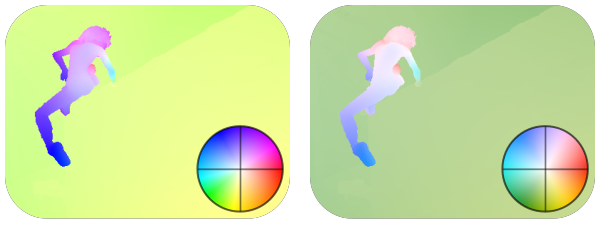
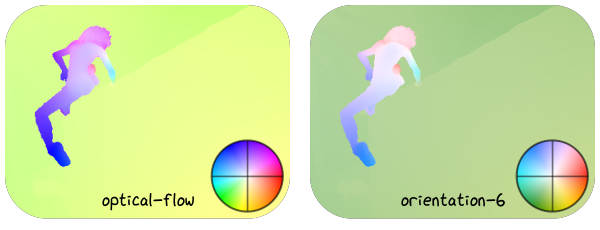
add color map name to optical flow demo

Changed region(s): [[0.15, 0.5174, 0.48, 0.9435], [0.66, 0.5174, 0.99, 0.9435]]

diff --git a/examples/rtd-examples-python/rtd_demo_images/optical_flow.py b/examples/rtd-examples-python/rtd_demo_images/optical_flow.py
@@ -12,6 +12,8 @@ def demo_optical_flow():
     
     painter = viren2d.Painter(height=230, width=600, color='white!0')
     grid_style = viren2d.LineStyle(2, "black!60")
+    text_style = viren2d.TextStyle(
+        family='xkcd', size=18)
 
     scale = (painter.width / 2 - 15) / flow.width
 
@@ -24,7 +26,7 @@ def demo_optical_flow():
             scale_x=scale, scale_y=scale)
 
         legend = viren2d.optical_flow_legend(
-            size=120, colormap=cmap, line_style=grid_style)
+            size=100, colormap=cmap, line_style=grid_style)
 
         painter.draw_image(
             legend,
@@ -33,5 +35,11 @@ def demo_optical_flow():
                 5 + (flow_vis.height - 10) * scale),
             anchor='bottom-right', line_style=grid_style, clip_factor=1,
             scale_x=scale, scale_y=scale)
+        
+        painter.draw_text(
+            [cmap], position=(
+                x + flow_vis.width * scale / 2,
+                5 + (flow_vis.height - 10) * scale),
+            anchor='bottom', text_style=text_style)
 
     return np.array(painter.canvas, copy=True)

diff --git a/examples/rtd-examples-python/render_rtd_images.py b/examples/rtd-examples-python/render_rtd_images.py
@@ -123,5 +123,5 @@ def render_rtd_cheatsheets(show_images: bool, save_images: bool):
 
 
 if __name__ == '__main__':
-    # render_rtd_demos(True, True)
+    render_rtd_demos(True, True)
     render_rtd_cheatsheets(True, True)

diff --git a/docs/source/tutorial/optical-flow.rst b/docs/source/tutorial/optical-flow.rst
@@ -20,7 +20,7 @@ with different cyclic color maps. Corresponding Python code:
 
 .. literalinclude:: ../../../examples/rtd-examples-python/rtd_demo_images/optical_flow.py
    :language: python
-   :emphasize-lines: 2, 10-11, 17-18
-   :lines: 10-35
+   :emphasize-lines: 2, 12-13, 19-20
+   :lines: 10-43
    :linenos:
    :dedent: 4
